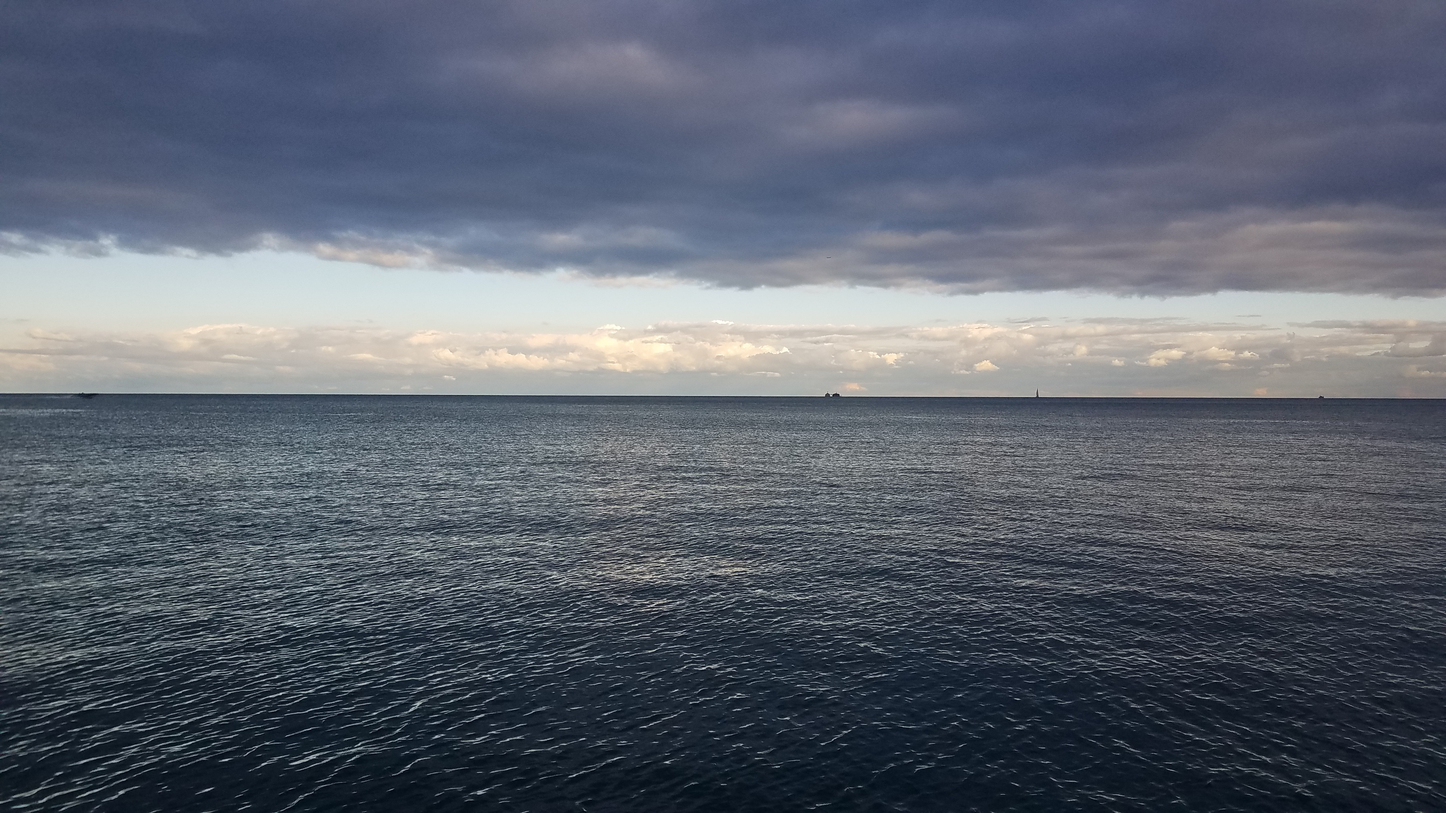
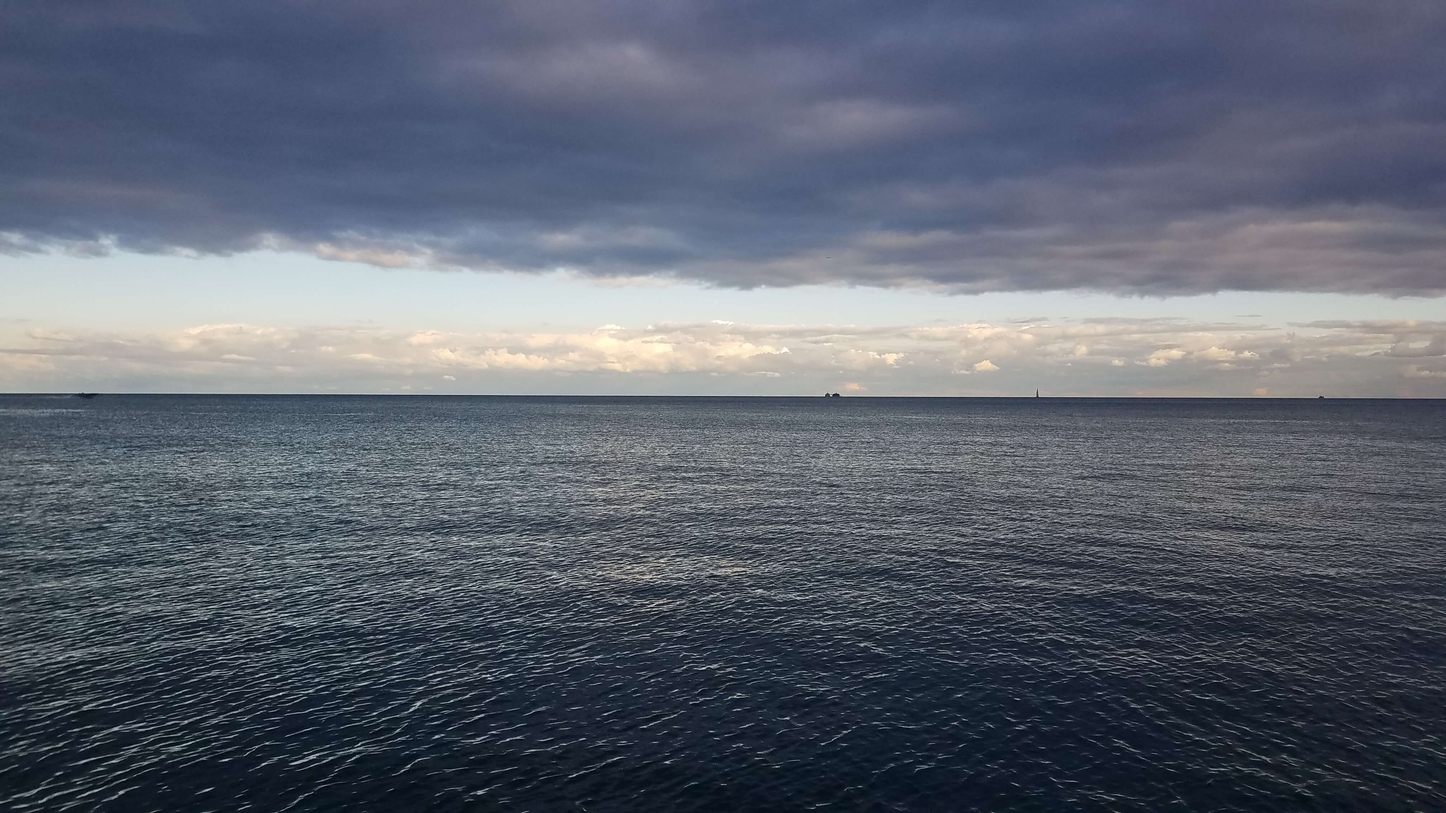
fix?

diff --git a/style.css b/style.css
@@ -85,7 +85,7 @@ body {
   display: flex;
   flex-direction: column;
   align-items: center;
-  background-image: linear-gradient(rgba(0, 0, 0, 0.5), rgba(0, 0, 0, 0.5)), url("./images/lake-compressed.zip");
+  background-image: linear-gradient(rgba(0, 0, 0, 0.5), rgba(0, 0, 0, 0.5)), url("./images/20200929_171941\(0\).jpg");
   background-repeat: no-repeat;
   background-size: cover;
   background-position: center center;
